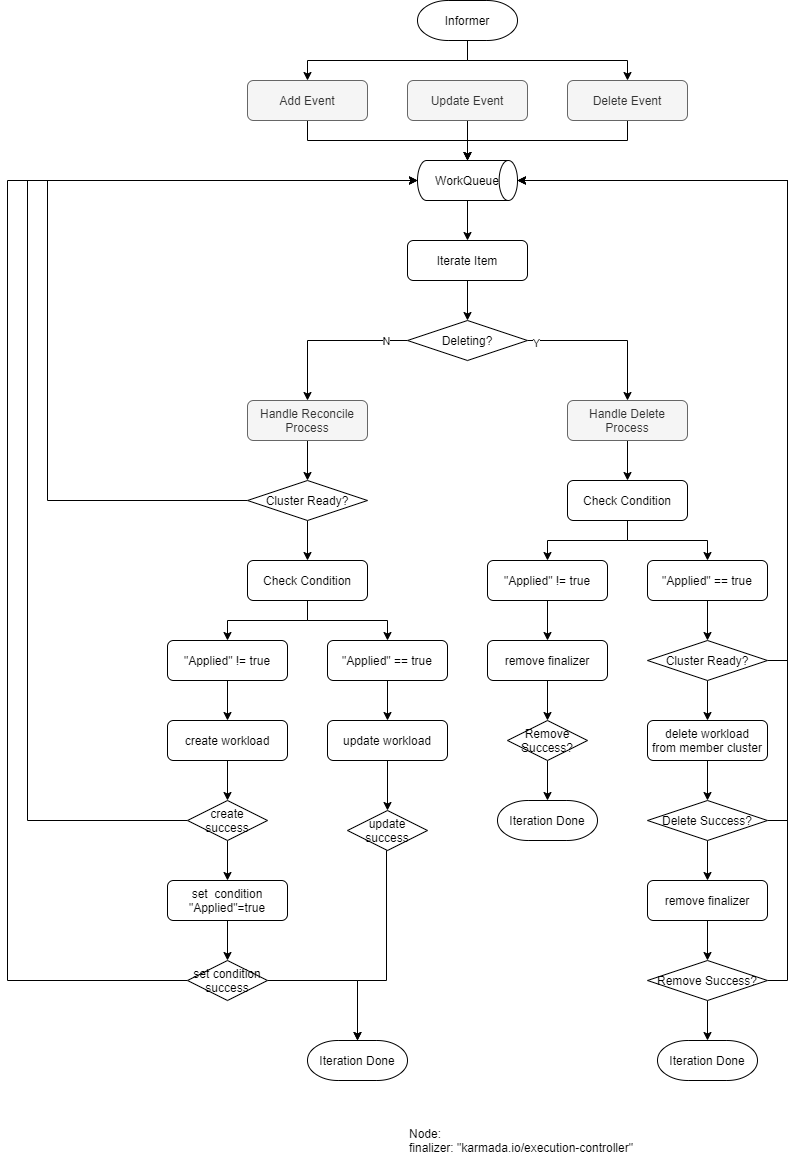
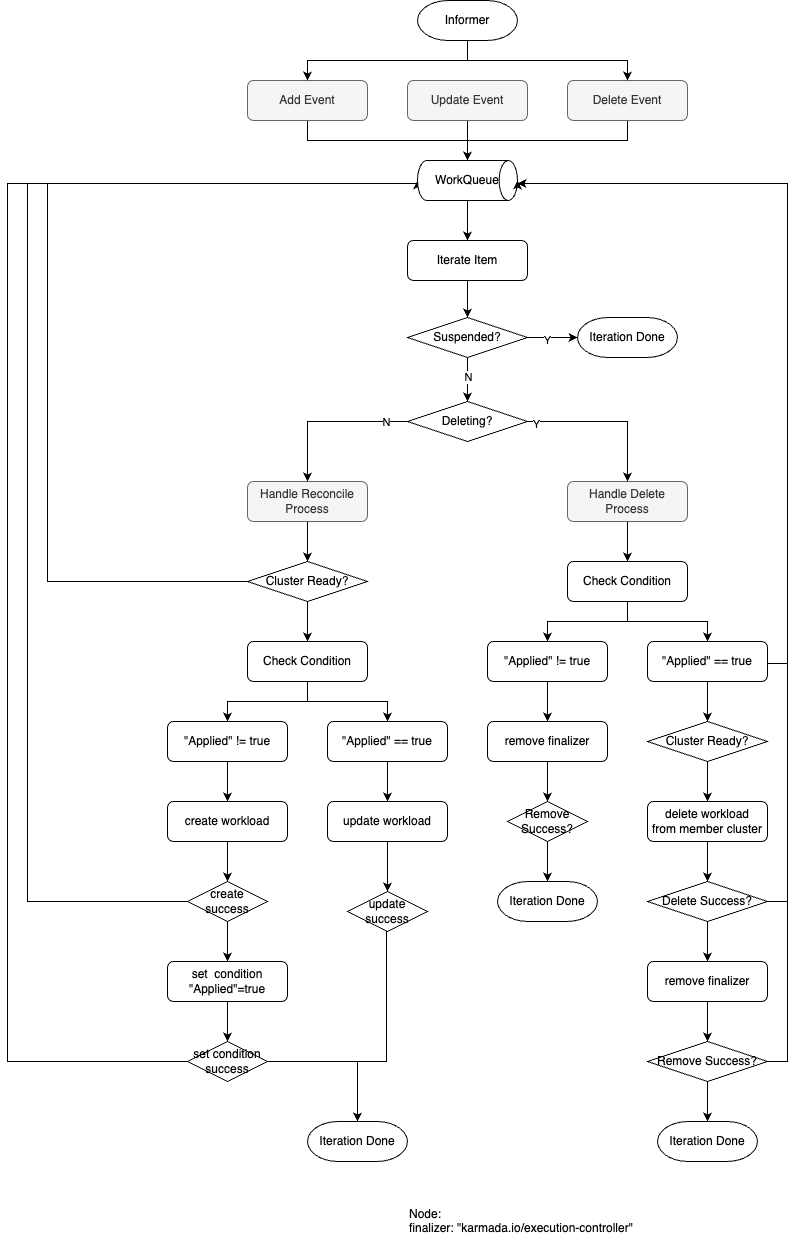
docs: cluster-level resource propagation pause and resume capabilities

diff --git a/docs/reference/instrumentation/event.md b/docs/reference/instrumentation/event.md
@@ -23,6 +23,7 @@ See more details about event [here](https://kubernetes.io/docs/reference/kuberne
 | InterpretHealthSucceed                  | Work                                                                                        | Normal  | work-status-controller                                                                                                    |
 | SyncFailed                              | Work                                                                                        | Warning | execution-controller                                                                                                      |
 | SyncSucceed                             | Work                                                                                        | Normal  | execution-controller                                                                                                      |
+| WorkDispatching                         | Work                                                                                        | Normal  | execution-controller                                                                                                      |
 | CleanupWorkFailed                       | ResourceBinding<br/>ClusterResourceBinding                                                  | Warning | binding-controller<br/>cluster-resource-binding-controller                                                                |
 | SyncScheduleResultToDependenciesSucceed | ResourceBinding<br/>ClusterResourceBinding                                                  | Normal  | dependencies-distributor                                                                                                  |
 | SyncScheduleResultToDependenciesFailed  | ResourceBinding<br/>ClusterResourceBinding                                                  | Warning | dependencies-distributor                                                                                                  |

diff --git a/docs/userguide/scheduling/resource-propagating.md b/docs/userguide/scheduling/resource-propagating.md
@@ -671,3 +671,74 @@ spec:
 ```
 The `nginx` deployment in `default` namespace will be propagated to cluster `member2`.
 
+
+## Suspend and resume of resource propagation
+
+The `.spec.suspension` field in the `PropagationPolicy` and `ClusterPropagationPolicy` allows suspending and resuming resource propagation to one or more clusters.
+
+### Suspend resource propagation to all clusters
+
+To suspend resource propagfation work to all member clusters, use the following configuration:
+
+```yaml
+apiVersion: policy.karmada.io/v1alpha1
+kind: PropagationPolicy
+metadata:
+ name: nginx-propagation
+spec:
+ #...
+ placement:
+  clusterAffinity:
+   exclude:
+    - member1
+    - member3
+  #...
+  suspension:
+    dispatching: true
+```
+
+Updates to the `nginx` deployment in the Karmada control plane will not be synchronized to any member clusters.
+
+### Suspend resource propagation to specific clusters
+
+To suspend resource propgation to individual member clusters, specify the cluster names in the `.spec.suspension.clusterNames` field:
+
+```yaml
+apiVersion: policy.karmada.io/v1alpha1
+kind: PropagationPolicy
+metadata:
+ name: nginx-propagation
+spec:
+ #...
+ placement:
+  clusterAffinity:
+   exclude:
+    - member1
+    - member3
+  #...
+  suspension:
+    clusterNames: ["member3"]
+```
+
+Updates to the `nginx` deployment in the Karmada control plane will not be synchronized to the `member3` cluster but will be synchronized to all other clusters.
+
+### Resume resource propagation
+
+To resume dispatching work, simply remove the `.spec.suspension` configuration:
+
+```yaml
+apiVersion: policy.karmada.io/v1alpha1
+kind: PropagationPolicy
+metadata:
+ name: nginx-propagation
+spec:
+ #...
+ placement:
+  clusterAffinity:
+   exclude:
+    - member1
+    - member3
+  #...
+```
+
+The state of the `nginx` deployment in the Karmada control plane will be synchronized to all member clusters, and any subsequent updates will be synchronized as well.
